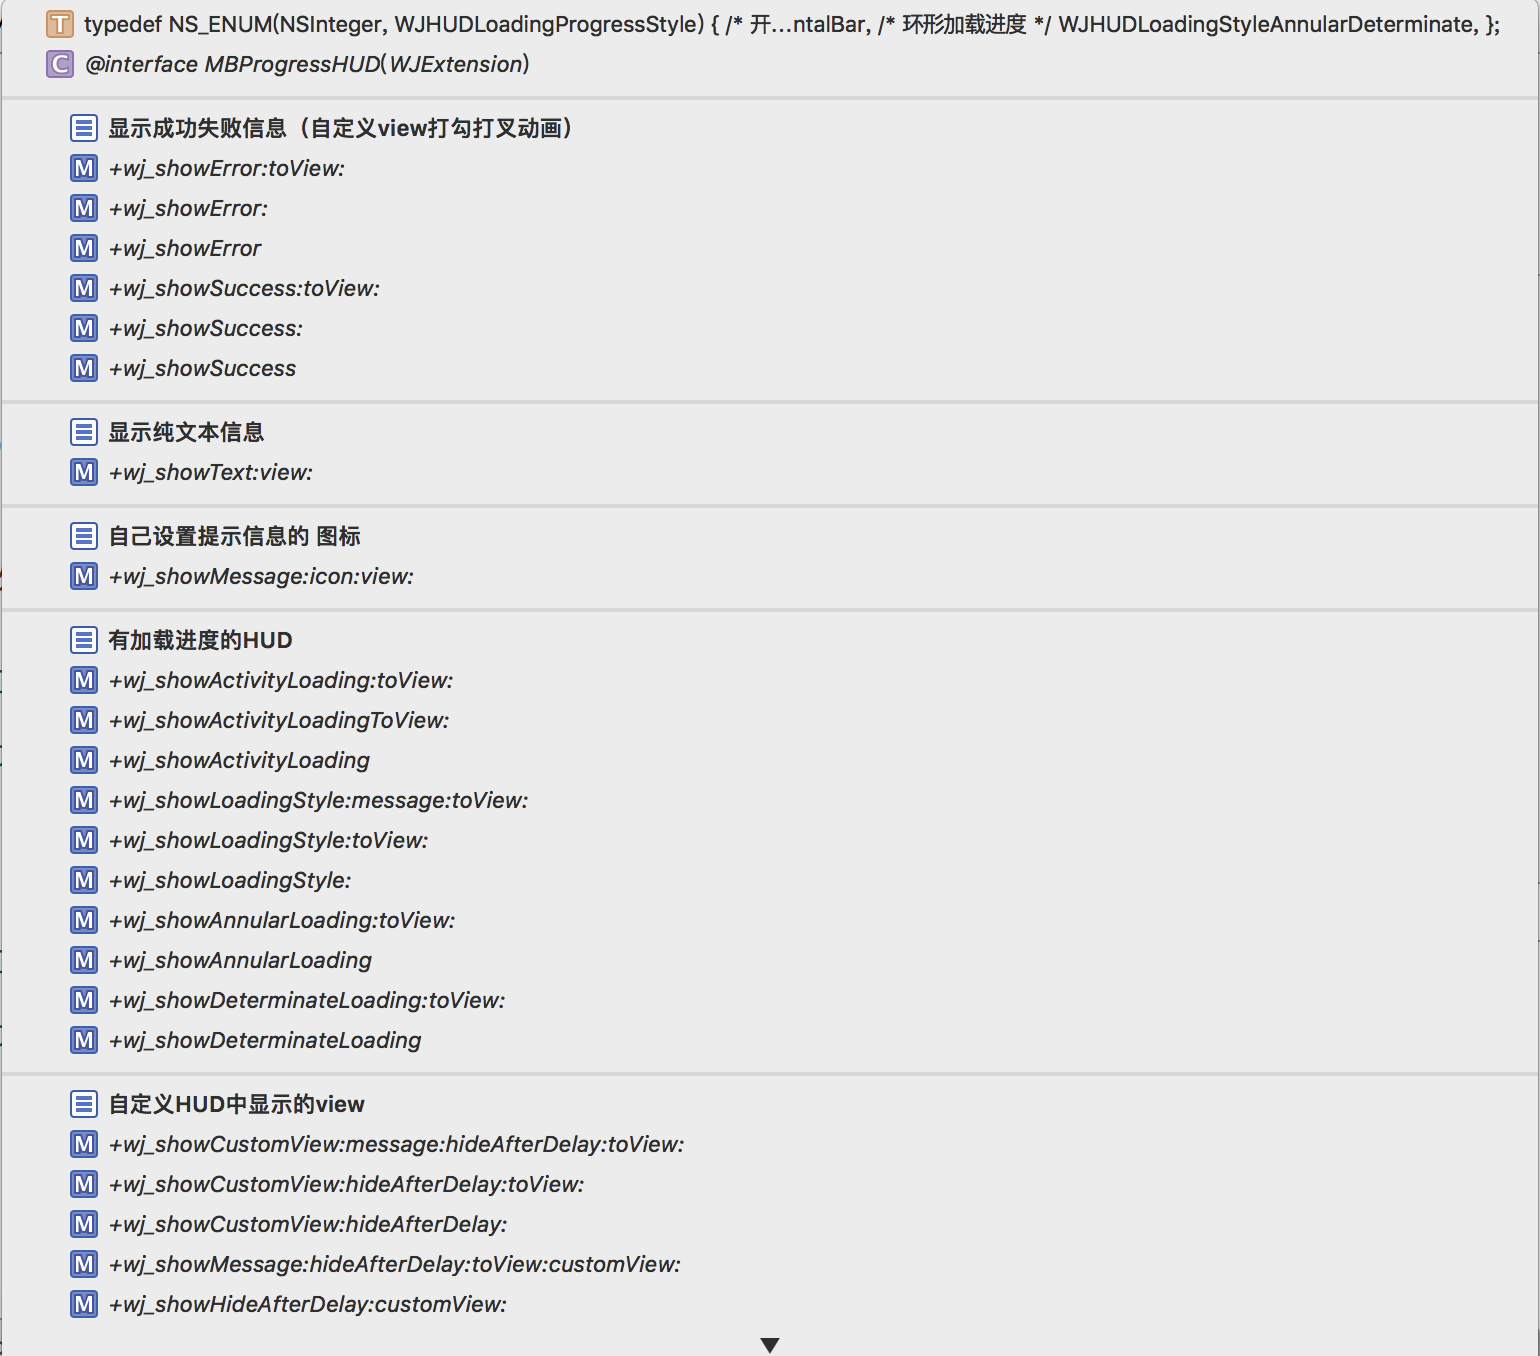
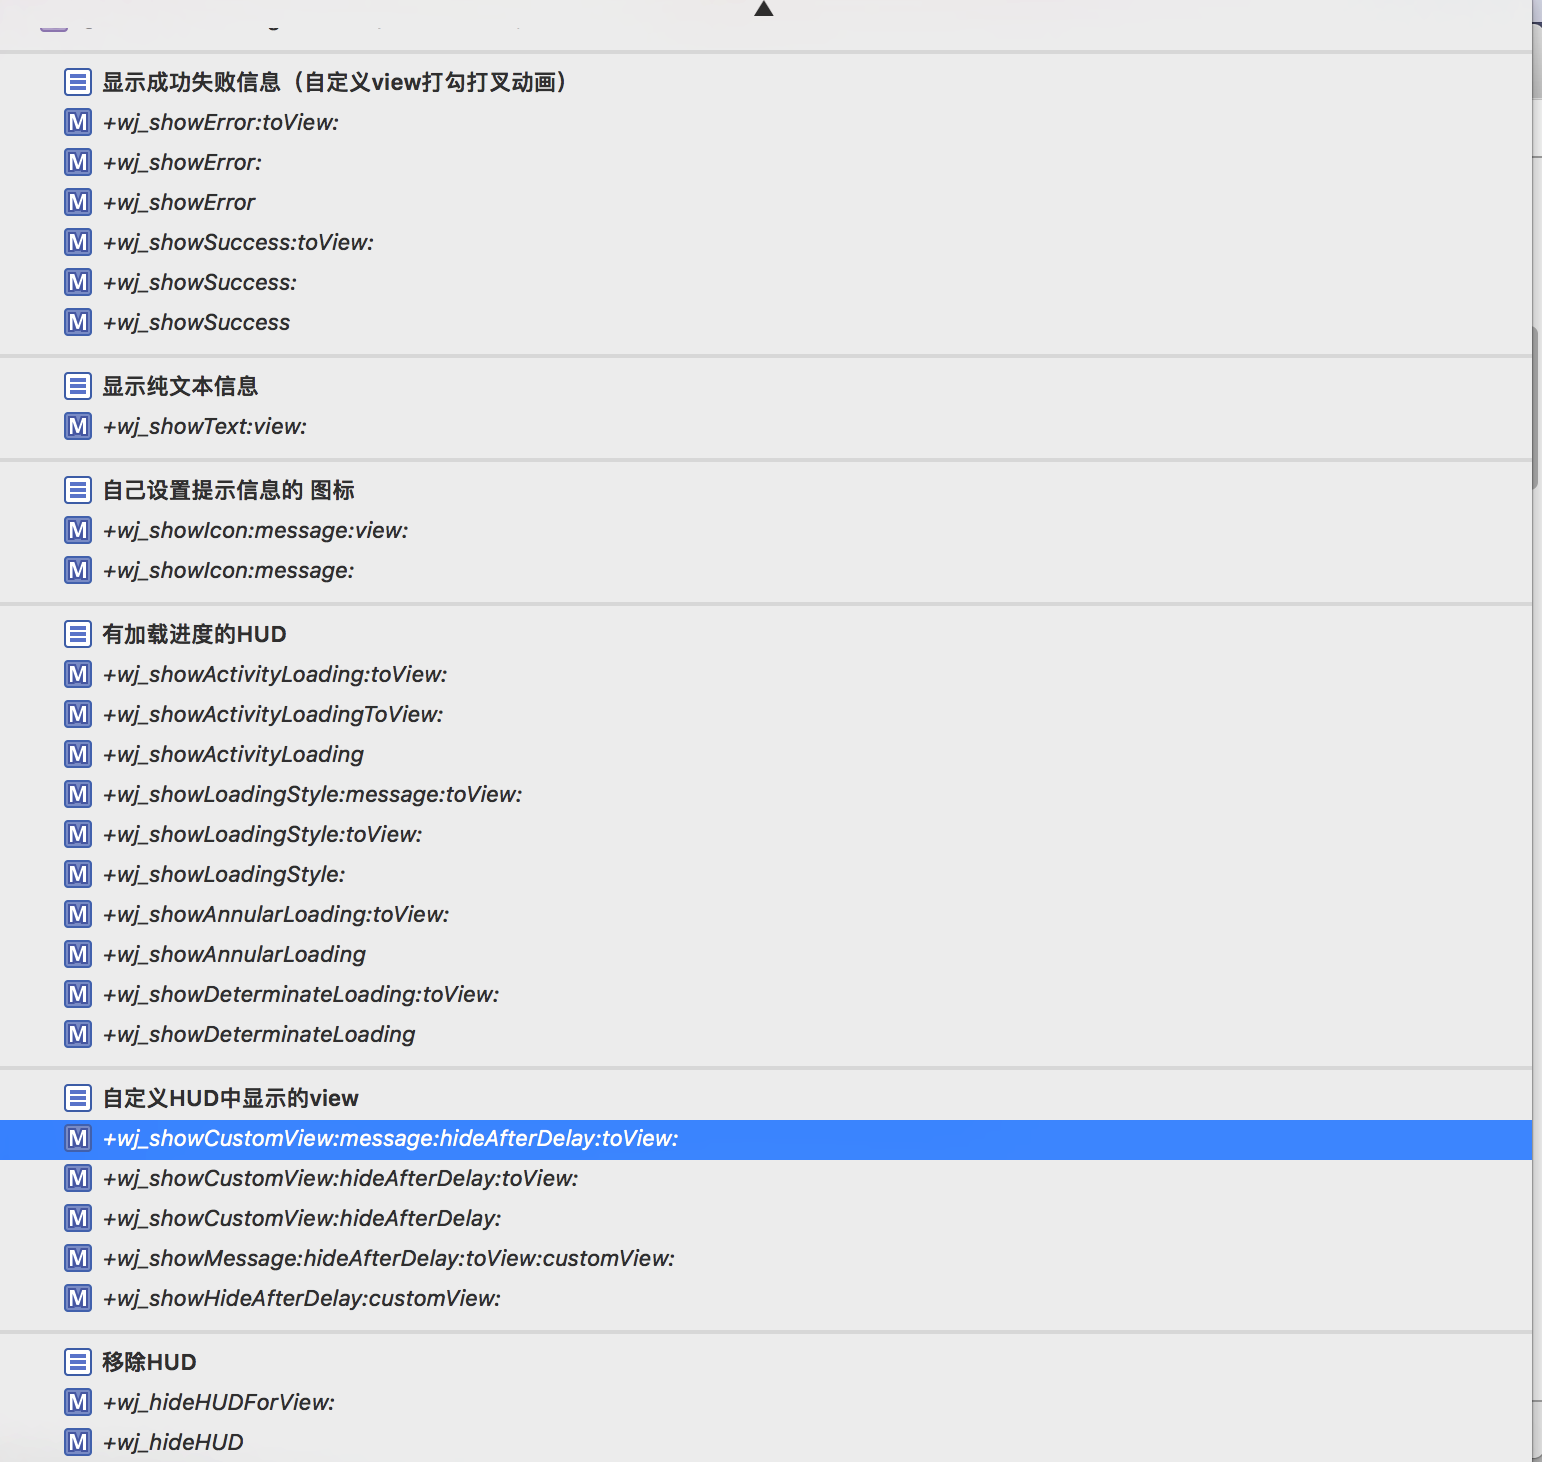
调整自定义icon方法

Changed region(s): [[0.0, 0.0, 1.0, 1.0]]

diff --git a/MBProgressHUD+WJExtension/MBProgressHUD+WJExtension.h b/MBProgressHUD+WJExtension/MBProgressHUD+WJExtension.h
@@ -5,9 +5,12 @@
 //  Created by 陈威杰 on 2017/6/2.
 //  Copyright © 2017年 ChenWeiJie. All rights reserved.
 //
-//----------------------------------------------------
-//             基于 MBProgressHUD 框架封装（支持横竖屏）
-//----------------------------------------------------
+//----------------------------------------------------------------
+//       基于 MBProgressHUD 0.9.2版本封装（支持横竖屏）
+//       当前版本：1.1.0
+//       如果在使用过程中有问题或者建议可以随时联系我：
+//       weejie_chen@icloud.com 或者 GitHub issue
+//-----------------------------------------------------------------
 
 
 #import "MBProgressHUD.h"
@@ -77,16 +80,20 @@ typedef NS_ENUM(NSInteger, WJHUDLoadingProgressStyle) {
 
 
 #pragma mark - 自己设置提示信息的 图标
+
+
 /**
  显示带有自定义icon图标消息HUD
 
- @param message 消息正文
  @param icon 图标
+ @param message 消息正文
  @param view 展示的view
  */
-+ (void)wj_showMessage:(NSString *)message
-                  icon:(UIImage *)icon
-                  view:(nullable UIView *)view;
++ (void)wj_showIcon:(UIImage *)icon
+            message:(NSString *)message
+               view:(nullable UIView *)view;
+
++ (void)wj_showIcon:(UIImage *)icon message:(NSString *)message;
 
 
 #pragma mark - 有加载进度的HUD
@@ -103,14 +110,14 @@ typedef NS_ENUM(NSInteger, WJHUDLoadingProgressStyle) {
                                 toView:(nullable UIView *)view;
 
 /**
- 只显示菊花加载动画
+ 只显示菊花加载动画，不会自动消失，需要在你需要移除的时候调用 wj_hideHUDForView: 等移除方法
 
  @param view 展示的View
  @return MBProgressHUD对象，可以通过它调用MBProgressHUD中的方法
  */
 + (instancetype)wj_showActivityLoadingToView:(nullable UIView *)view;
 /**
- 只显示菊花加载动画
+ 只显示菊花加载动画，不会自动消失，需要在你需要移除的时候调用 wj_hideHUDForView: 等移除方法
  
  @return MBProgressHUD对象，可以通过它调用MBProgressHUD中的方法
  */

diff --git a/MBProgressHUD+WJExtension/MBProgressHUD+WJExtension.m b/MBProgressHUD+WJExtension/MBProgressHUD+WJExtension.m
@@ -36,31 +36,35 @@
 
 #pragma mark 显示带有自定义icon图片的消息
 /**
- 显示带有自定义icon图片的消息
+ 显示带有自定义icon图标消息HUD
  
+ @param icon 图标
  @param message 消息正文
- @param icon 图片
  @param view 展示的view
  */
-+ (void)wj_showMessage:(NSString *)message icon:(UIImage *)icon view:(nullable UIView *)view
-{
++ (void)wj_showIcon:(UIImage *)icon message:(NSString *)message view:(nullable UIView *)view{
     if (view == nil) view = [[UIApplication sharedApplication].windows lastObject];
     // 快速显示一个提示信息
     MBProgressHUD *hud = [MBProgressHUD showHUDAddedTo:view animated:YES];
     // 默认
-//    hud.mode = MBProgressHUDModeIndeterminate;
+    //    hud.mode = MBProgressHUDModeIndeterminate;
     hud.labelText = message;
     // 设置图片
     hud.customView = [[UIImageView alloc] initWithImage:icon];
     // 再设置模式
     hud.mode = MBProgressHUDModeCustomView;
-
-
+    
+    
     // 隐藏时候从父控件中移除
     hud.removeFromSuperViewOnHide = YES;
     
     // 1秒之后再消失
     [hud hide:YES afterDelay:1.0];
+}
+
+
++ (void)wj_showIcon:(UIImage *)icon message:(NSString *)message{
+    [self wj_showIcon:icon message:message view:nil];
 }
 
 

diff --git a/WJTool/WJTool/ViewController.m b/WJTool/WJTool/ViewController.m
@@ -82,8 +82,9 @@
         [MBProgressHUD wj_showError:@"操作失败"];
         
     } else if (3 == indexPath.row) {
-        
-        [MBProgressHUD wj_showMessage:@"测试图标" icon:[UIImage imageNamed:@"icon_component"] view:nil];
+
+//        [MBProgressHUD wj_showIcon:[UIImage imageNamed:@"icon_component"] message:@"测试图标" view:nil];
+        [MBProgressHUD wj_showIcon:[UIImage imageNamed:@"icon_component"] message:@"测试图标"];
         
     } else if (4 == indexPath.row) {
         
